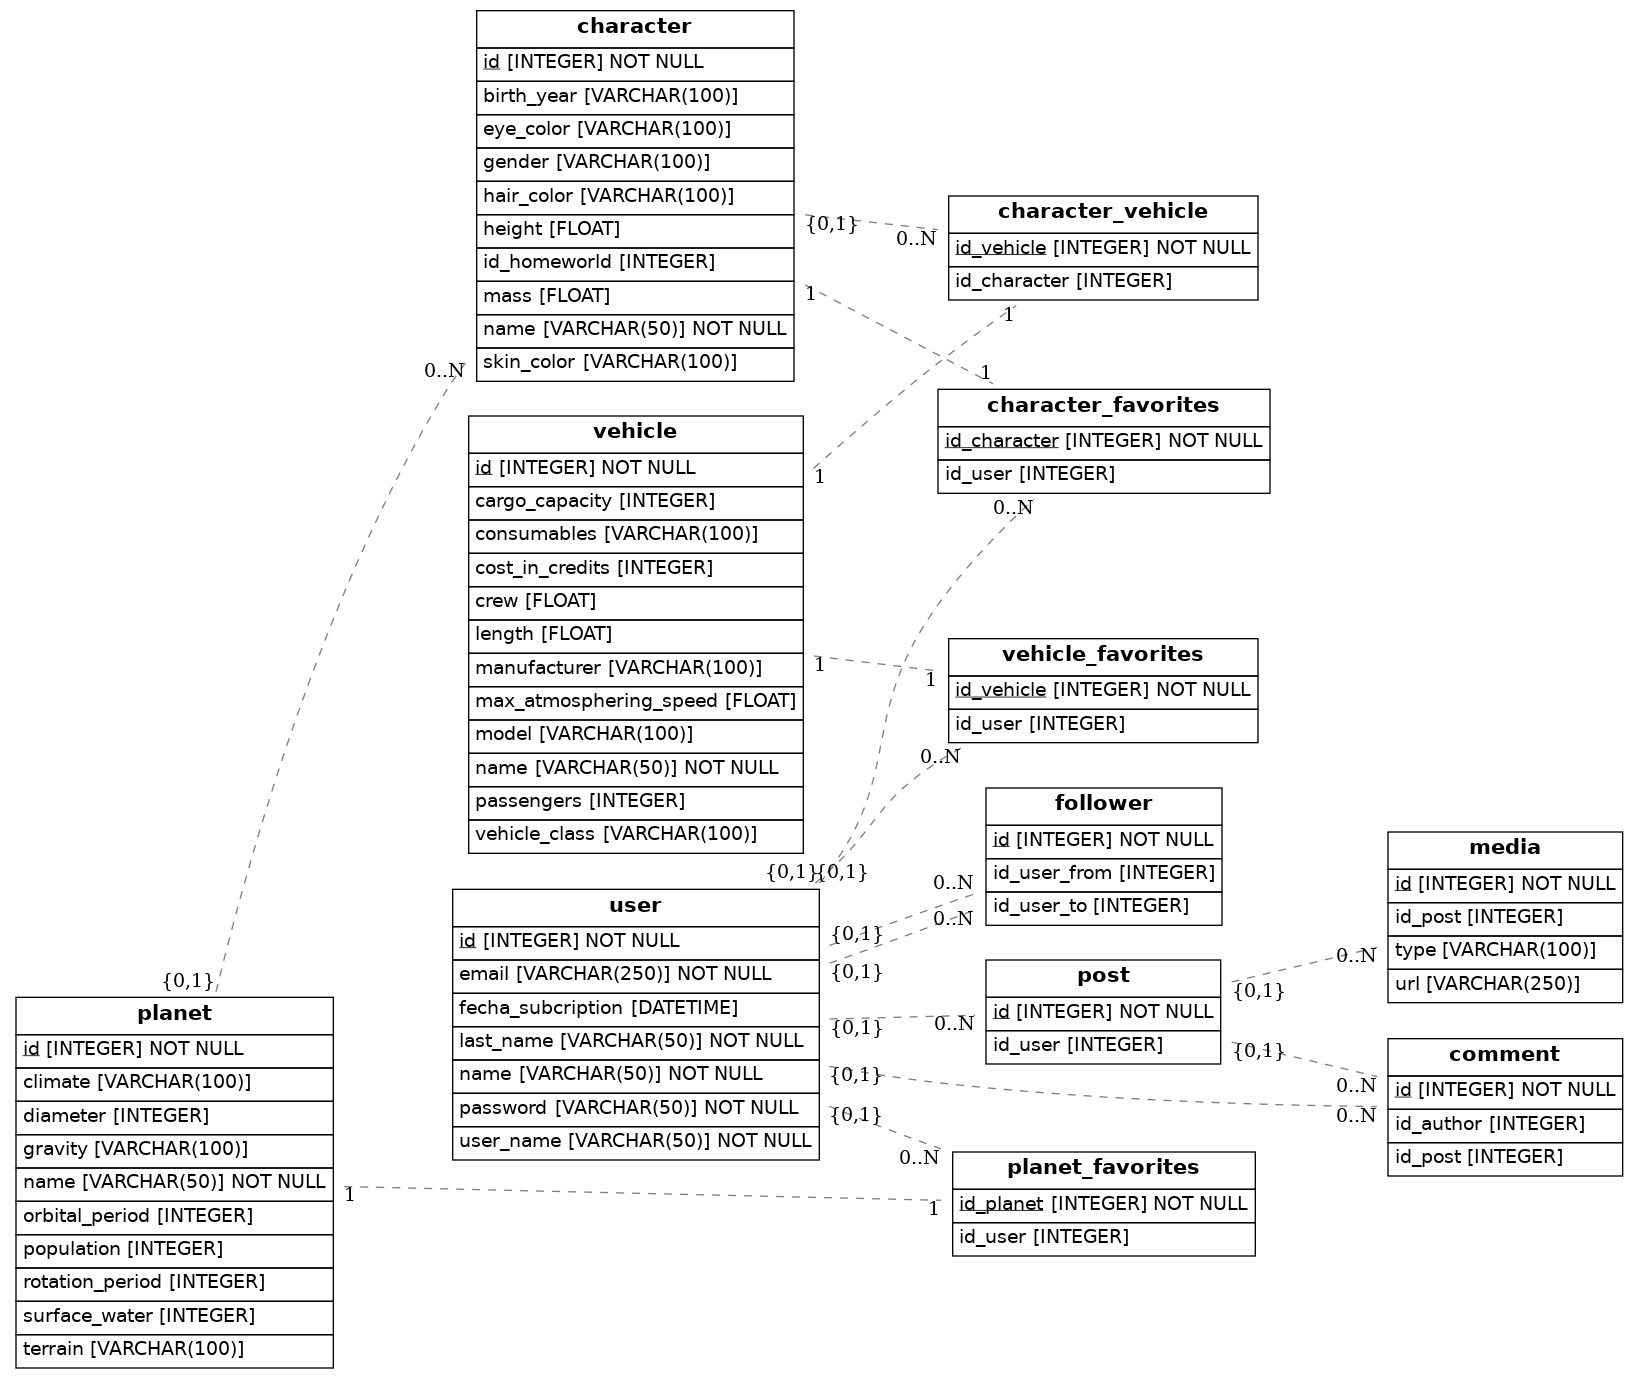
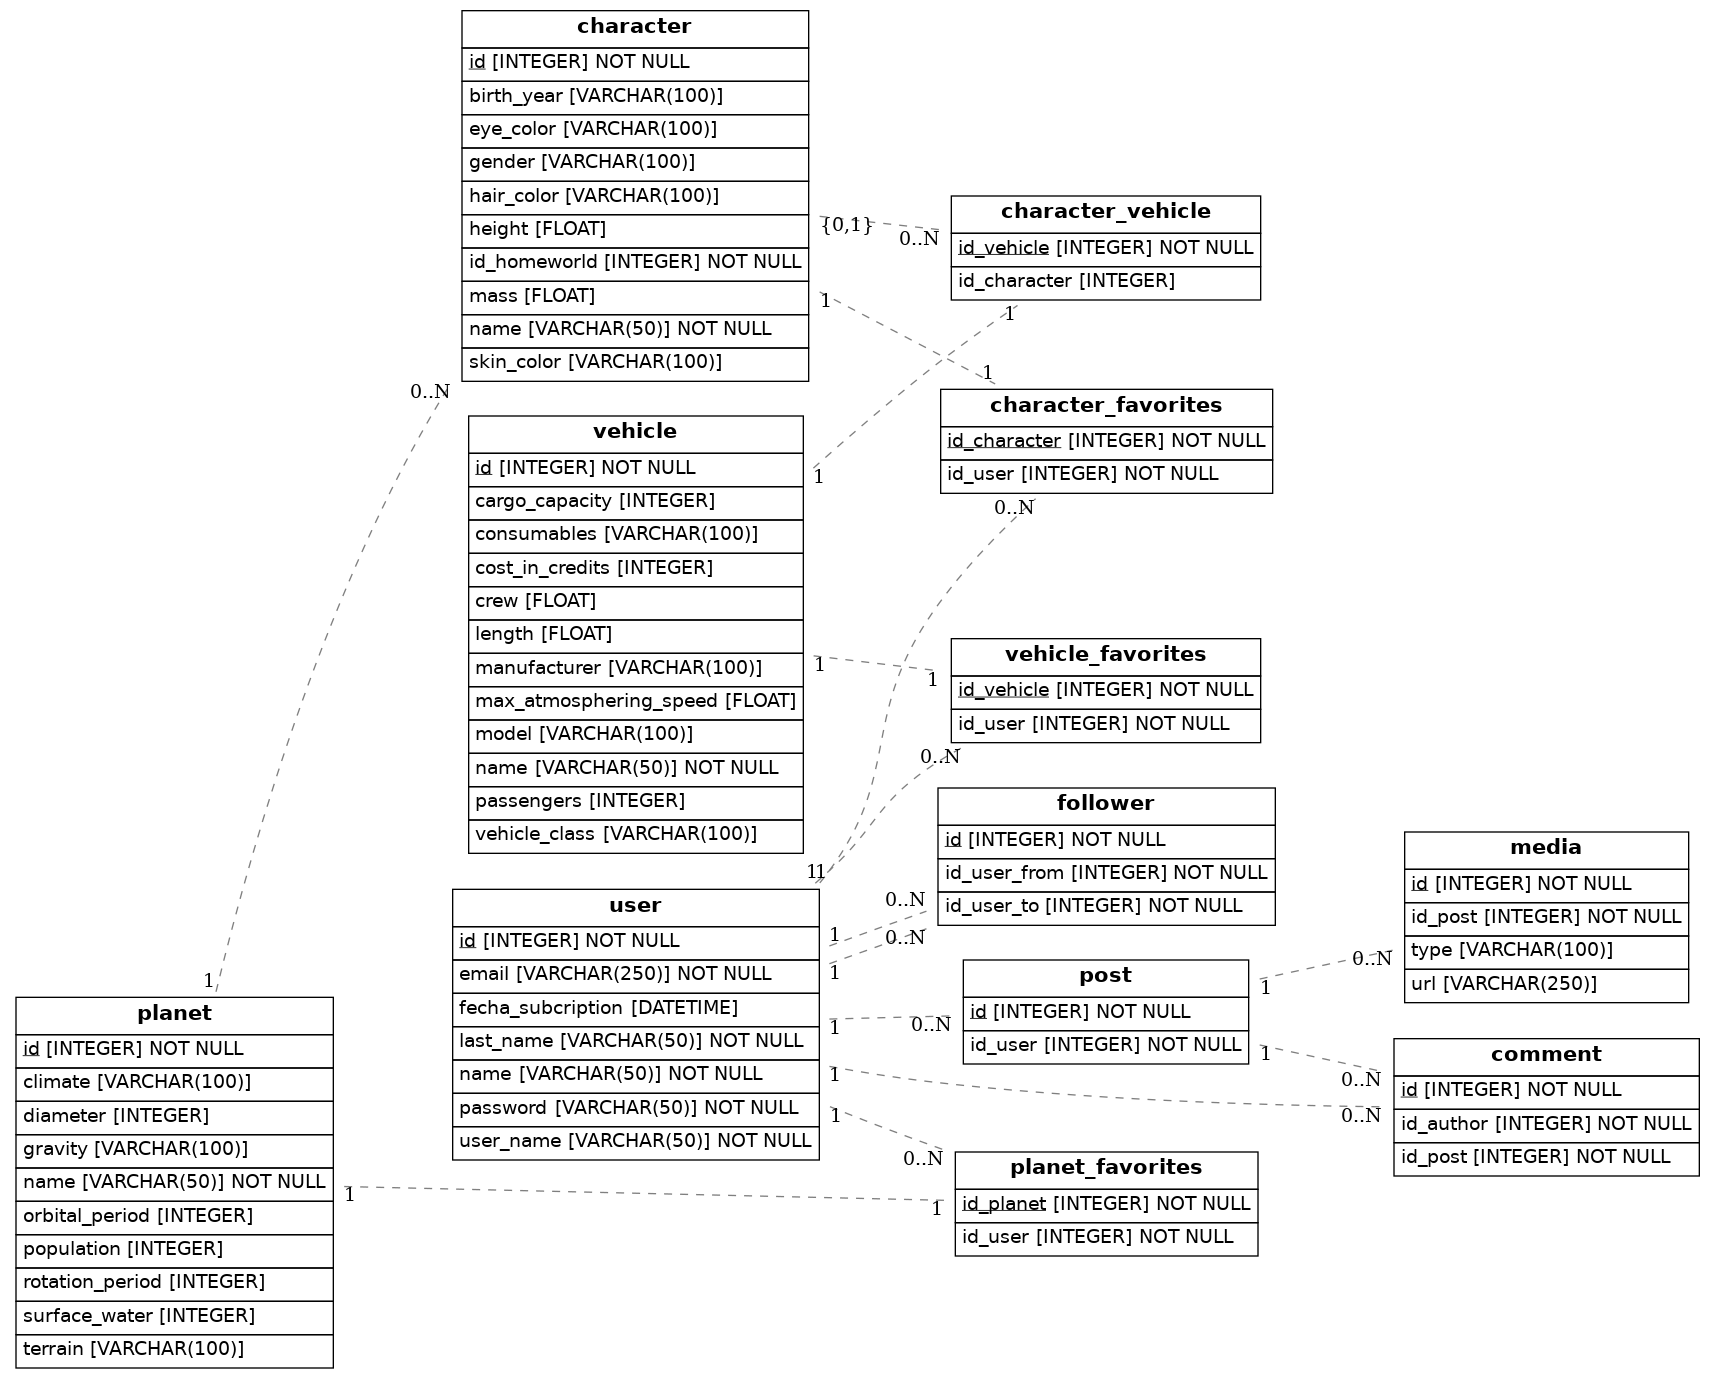
Primera Version

diff --git a/src/models.py b/src/models.py
@@ -60,7 +60,7 @@ class Character(Base):
     eye_color = Column(String(100))
     birth_year = Column(String(100))
     gender = Column(String(100))
-    id_homeworld = Column(Integer, ForeignKey('planet.id'))
+    id_homeworld = Column(Integer, ForeignKey('planet.id'), nullable=False)
     planet = relationship(Planet)
 
 class CharacterVehicle(Base):
@@ -73,24 +73,24 @@ class CharacterVehicle(Base):
 class CharacterFavorites(Base):
     __tablename__ = 'character_favorites'
     id_character = Column(Integer, ForeignKey(
-        'character.id'), primary_key=True)
-    id_user = Column(Integer, ForeignKey('user.id'))
+        'character.id'), primary_key=True, nullable=False)
+    id_user = Column(Integer, ForeignKey('user.id'), nullable=False)
     user = relationship(User)
     character = relationship(Character)
 
 
 class PlanetFavorites(Base):
     __tablename__ = 'planet_favorites'
-    id_planet = Column(Integer, ForeignKey('planet.id'), primary_key=True)
-    id_user = Column(Integer, ForeignKey('user.id'))
+    id_planet = Column(Integer, ForeignKey('planet.id'), primary_key=True, nullable=False)
+    id_user = Column(Integer, ForeignKey('user.id'), nullable=False)
     user = relationship(User)
     planet = relationship(Planet)
 
 
 class VehicleFavorites(Base):
     __tablename__ = 'vehicle_favorites'
-    id_vehicle = Column(Integer, ForeignKey('vehicle.id'), primary_key=True)
-    id_user = Column(Integer, ForeignKey('user.id'))
+    id_vehicle = Column(Integer, ForeignKey('vehicle.id'), primary_key=True, nullable=False)
+    id_user = Column(Integer, ForeignKey('user.id'), nullable=False)
     user = relationship(User)
     planet = relationship(Vehicle)
 
@@ -98,7 +98,7 @@ class VehicleFavorites(Base):
 class Post(Base):
     __tablename__ = 'post'
     id = Column(Integer, primary_key=True)
-    id_user = Column(Integer, ForeignKey('user.id'))
+    id_user = Column(Integer, ForeignKey('user.id'), nullable=False)
     user = relationship(User)
 
 
@@ -107,24 +107,24 @@ class Media(Base):
     id = Column(Integer, primary_key=True)
     type = Column(String(100))
     url = Column(String(250))
-    id_post = Column(Integer, ForeignKey('post.id'))
+    id_post = Column(Integer, ForeignKey('post.id'), nullable=False)
     post = relationship(Post)
 
 
 class Comment(Base):
     __tablename__ = 'comment'
     id = Column(Integer, primary_key=True)
-    id_author = Column(Integer, ForeignKey('user.id'))
+    id_author = Column(Integer, ForeignKey('user.id'), nullable=False)
     user = relationship(User)
-    id_post = Column(Integer, ForeignKey('post.id'))
+    id_post = Column(Integer, ForeignKey('post.id'), nullable=False)
     post = relationship(Post)
 
 
 class Follower(Base):
     __tablename__ = 'follower'
     id = Column(Integer, primary_key=True)
-    id_user_from = Column(Integer, ForeignKey('user.id'))
-    id_user_to = Column(Integer, ForeignKey('user.id'))
+    id_user_from = Column(Integer, ForeignKey('user.id'), nullable=False)
+    id_user_to = Column(Integer, ForeignKey('user.id'), nullable=False)
 
 
 def to_dict(self):
